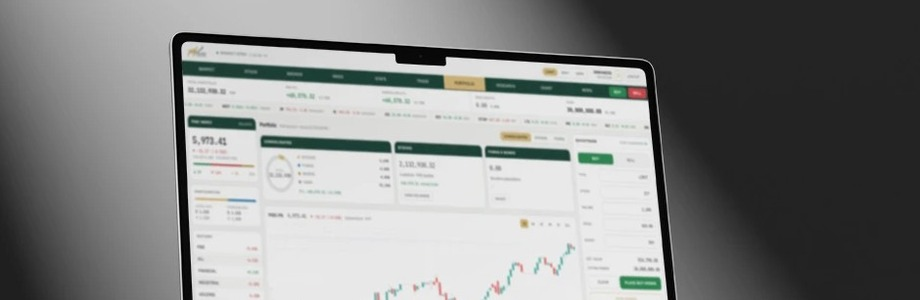
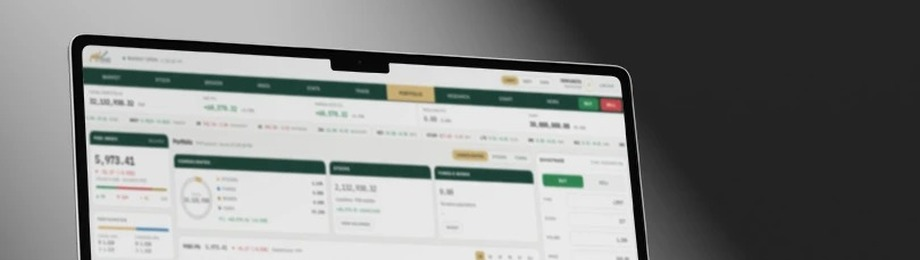
Gold badge, sharper header photo, compact 4:5 popup with no scroll
Recolor the announcement badge to gold with white text and give it
more clearance above the fade. Swap in the higher-resolution header
photo. Bold the cut-over date within the subhead. Resize the modal
to a 4:5 aspect ratio and scale every element down proportionally so
the full popup fits on screen without scrolling on both desktop and
mobile.

Claude-Session: https://claude.ai/code/session_01JjpTR15PF52iThW971Y9vg

diff --git a/assets/css/mytrade-announcement.css b/assets/css/mytrade-announcement.css
@@ -45,15 +45,16 @@
 .mta-modal {
   position: relative;
   width: 100%;
-  max-width: 460px;
+  max-width: 400px;
+  aspect-ratio: 4 / 5;
   max-height: calc(100vh - 32px);
   overflow-y: auto;
   -webkit-overflow-scrolling: touch;
   background-color: #ffffff;
   color: #202322;
   border: 1px solid #d3d8d5;
-  border-radius: 14px;
-  padding: 28px 24px 24px;
+  border-radius: 16px;
+  padding: 20px 20px 16px;
   -webkit-box-sizing: border-box;
   box-sizing: border-box;
   -webkit-box-shadow: 0 20px 60px rgba(32, 35, 34, 0.22);
@@ -82,11 +83,11 @@
 
 .mta-close {
   position: absolute;
-  top: 12px;
-  right: 12px;
+  top: 10px;
+  right: 10px;
   z-index: 2;
-  width: 32px;
-  height: 32px;
+  width: 28px;
+  height: 28px;
   border: none;
   border-radius: 50%;
   background-color: rgba(255, 255, 255, 0.85);
@@ -124,9 +125,9 @@
 
 .mta-hero {
   position: relative;
-  height: 172px;
-  margin: -28px -24px 20px;
-  border-radius: 14px 14px 0 0;
+  height: 92px;
+  margin: -20px -20px 16px;
+  border-radius: 16px 16px 0 0;
   overflow: hidden;
   background-color: #123d32;
 }
@@ -150,35 +151,40 @@
 
 .mta-badge {
   position: absolute;
-  left: 16px;
-  bottom: 14px;
+  left: 14px;
+  bottom: 20px;
   z-index: 1;
   display: inline-block;
-  background-color: #123d32;
-  color: #edcc82;
-  font-size: 11px;
+  background-color: #debd76;
+  color: #ffffff;
+  font-size: 10px;
   font-weight: 700;
   letter-spacing: 0.06em;
   text-transform: uppercase;
-  padding: 6px 12px;
+  padding: 5px 10px;
   border-radius: 999px;
   -webkit-box-shadow: 0 6px 16px rgba(10, 13, 12, 0.35);
   box-shadow: 0 6px 16px rgba(10, 13, 12, 0.35);
 }
 
 .mta-title {
-  margin: 0 0 8px;
-  font-size: 22px;
-  line-height: 1.3;
+  margin: 0 0 5px;
+  font-size: 17px;
+  line-height: 1.25;
   font-weight: 700;
   color: #202322;
 }
 
 .mta-subtitle {
-  margin: 0 0 16px;
-  font-size: 14px;
+  margin: 0 0 10px;
+  font-size: 12.5px;
   color: #6f7773;
-  line-height: 1.5;
+  line-height: 1.4;
+}
+
+.mta-subtitle strong {
+  font-weight: 600;
+  color: #6f7773;
 }
 
 .mta-body p {
@@ -192,12 +198,12 @@
   display: -webkit-box;
   display: -ms-flexbox;
   display: flex;
-  gap: 10px;
+  gap: 8px;
   border: 1px solid #d3d8d5;
-  border-left-width: 4px;
+  border-left-width: 3px;
   border-radius: 8px;
-  padding: 12px 14px;
-  margin-bottom: 18px;
+  padding: 8px 10px;
+  margin-bottom: 10px;
   background-color: #fbf5e8;
 }
 
@@ -206,12 +212,14 @@
   -ms-flex-negative: 0;
   flex-shrink: 0;
   margin-top: 1px;
+  width: 15px;
+  height: 15px;
 }
 
 .mta-alert p {
   margin: 0;
-  font-size: 13px;
-  line-height: 1.55;
+  font-size: 11px;
+  line-height: 1.4;
   color: #202322;
 }
 
@@ -225,7 +233,7 @@
   border-radius: 10px;
   overflow: hidden;
   text-decoration: none;
-  margin-bottom: 14px;
+  margin-bottom: 10px;
   -webkit-tap-highlight-color: transparent;
   transition: transform 0.2s ease, box-shadow 0.2s ease, border-color 0.2s ease;
 }
@@ -244,7 +252,7 @@
 .mta-video-thumb {
   position: relative;
   width: 100%;
-  padding-top: 42%;
+  padding-top: 26%;
   background: linear-gradient(135deg, #123d32, #0e2e20);
   display: -webkit-box;
   display: -ms-flexbox;
@@ -258,8 +266,8 @@
   -webkit-transform: translate(-50%, -50%);
   -ms-transform: translate(-50%, -50%);
   transform: translate(-50%, -50%);
-  width: 52px;
-  height: 52px;
+  width: 36px;
+  height: 36px;
   border-radius: 50%;
   background-color: #debd76;
   display: -webkit-box;
@@ -271,7 +279,7 @@
   -webkit-box-pack: center;
   -ms-flex-pack: center;
   justify-content: center;
-  padding-left: 3px;
+  padding-left: 2px;
   -webkit-box-sizing: border-box;
   box-sizing: border-box;
   box-shadow: 0 6px 18px rgba(0, 0, 0, 0.3);
@@ -293,19 +301,19 @@
   -webkit-box-direction: normal;
   -ms-flex-direction: column;
   flex-direction: column;
-  gap: 2px;
-  padding: 10px 14px;
+  gap: 1px;
+  padding: 6px 10px;
   background-color: #ffffff;
 }
 
 .mta-video-title {
-  font-size: 13.5px;
+  font-size: 11.5px;
   font-weight: 700;
   color: #202322;
 }
 
 .mta-video-sub {
-  font-size: 12px;
+  font-size: 10.5px;
   color: #6f7773;
 }
 
@@ -323,15 +331,15 @@
   width: 100%;
   -webkit-box-sizing: border-box;
   box-sizing: border-box;
-  padding: 12px 16px;
-  font-size: 14px;
+  padding: 9px 14px;
+  font-size: 12.5px;
   font-weight: 700;
-  letter-spacing: 0.03em;
+  letter-spacing: 0.02em;
   border-radius: 8px;
   border: 1px solid transparent;
   cursor: pointer;
   text-decoration: none;
-  margin-bottom: 14px;
+  margin-bottom: 8px;
   -webkit-tap-highlight-color: transparent;
   transition: background-color 0.2s ease, color 0.2s ease, transform 0.2s ease, box-shadow 0.2s ease;
 }
@@ -360,8 +368,8 @@
   -webkit-box-align: center;
   -ms-flex-align: center;
   align-items: center;
-  gap: 8px;
-  font-size: 13px;
+  gap: 7px;
+  font-size: 11.5px;
   color: #6f7773;
   cursor: pointer;
   -webkit-user-select: none;
@@ -370,8 +378,8 @@
 }
 
 .mta-checkbox input {
-  width: 16px;
-  height: 16px;
+  width: 14px;
+  height: 14px;
   margin: 0;
   accent-color: #c99d4c;
   cursor: pointer;
@@ -392,18 +400,28 @@
 
 @media (max-width: 480px) {
   .mta-modal {
-    padding: 22px 18px 18px;
-    border-radius: 12px;
+    padding: 16px 16px 14px;
+    border-radius: 14px;
   }
 
   .mta-hero {
-    height: 120px;
-    margin: -22px -18px 18px;
-    border-radius: 12px 12px 0 0;
+    height: 72px;
+    margin: -16px -16px 14px;
+    border-radius: 14px 14px 0 0;
+  }
+
+  .mta-badge {
+    bottom: 16px;
+    font-size: 9px;
+    padding: 4px 9px;
   }
 
   .mta-title {
-    font-size: 19px;
+    font-size: 15.5px;
+  }
+
+  .mta-subtitle {
+    font-size: 11.5px;
   }
 }
 

diff --git a/index.html b/index.html
@@ -71,12 +71,12 @@
     </div>
 
     <h2 id="mta-title" class="mta-title">We&rsquo;re Moving to the New MyTrade!</h2>
-    <p class="mta-subtitle">Starting September 30, 2026 &mdash; new platform, same great experience.</p>
+    <p class="mta-subtitle">Starting <strong>September 30, 2026</strong> &mdash; new platform, same great experience.</p>
 
     <a href="#REPLACE_WITH_YOUTUBE_URL" class="mta-video-card" target="_blank" rel="noopener noreferrer" aria-label="Watch Your Better Tomorrow on YouTube">
       <span class="mta-video-thumb">
         <span class="mta-video-play" aria-hidden="true">
-          <svg width="18" height="18" viewBox="0 0 24 24"><path d="M9 7l9 5-9 5z" fill="#123d32"/></svg>
+          <svg width="13" height="13" viewBox="0 0 24 24"><path d="M9 7l9 5-9 5z" fill="#123d32"/></svg>
         </span>
       </span>
       <span class="mta-video-meta">
@@ -87,14 +87,14 @@
 
     <div id="mta-desc" class="mta-body">
       <div class="mta-alert mta-alert--warning">
-        <svg width="18" height="18" viewBox="0 0 24 24" fill="none" aria-hidden="true"><path d="M12 3.5L21.5 20H2.5L12 3.5Z" stroke="#b8860b" stroke-width="2" stroke-linejoin="round"/><path d="M12 9.5v5" stroke="#b8860b" stroke-width="2" stroke-linecap="round"/><circle cx="12" cy="17" r="1" fill="#b8860b"/></svg>
+        <svg width="15" height="15" viewBox="0 0 24 24" fill="none" aria-hidden="true"><path d="M12 3.5L21.5 20H2.5L12 3.5Z" stroke="#b8860b" stroke-width="2" stroke-linejoin="round"/><path d="M12 9.5v5" stroke="#b8860b" stroke-width="2" stroke-linecap="round"/><circle cx="12" cy="17" r="1" fill="#b8860b"/></svg>
         <p><strong>Heads up:</strong> All existing GTC orders will be cancelled during the transition. Replace any you want to keep.</p>
       </div>
     </div>
 
     <a href="#REPLACE_WITH_LEARN_MORE_URL" class="mta-btn mta-btn--primary">
       Learn More
-      <svg width="14" height="14" viewBox="0 0 24 24"><path d="M4 12h14M13 6l6 6-6 6" stroke="currentColor" stroke-width="2" stroke-linecap="round" stroke-linejoin="round" fill="none"/></svg>
+      <svg width="12" height="12" viewBox="0 0 24 24"><path d="M4 12h14M13 6l6 6-6 6" stroke="currentColor" stroke-width="2" stroke-linecap="round" stroke-linejoin="round" fill="none"/></svg>
     </a>
 
     <label class="mta-checkbox">
